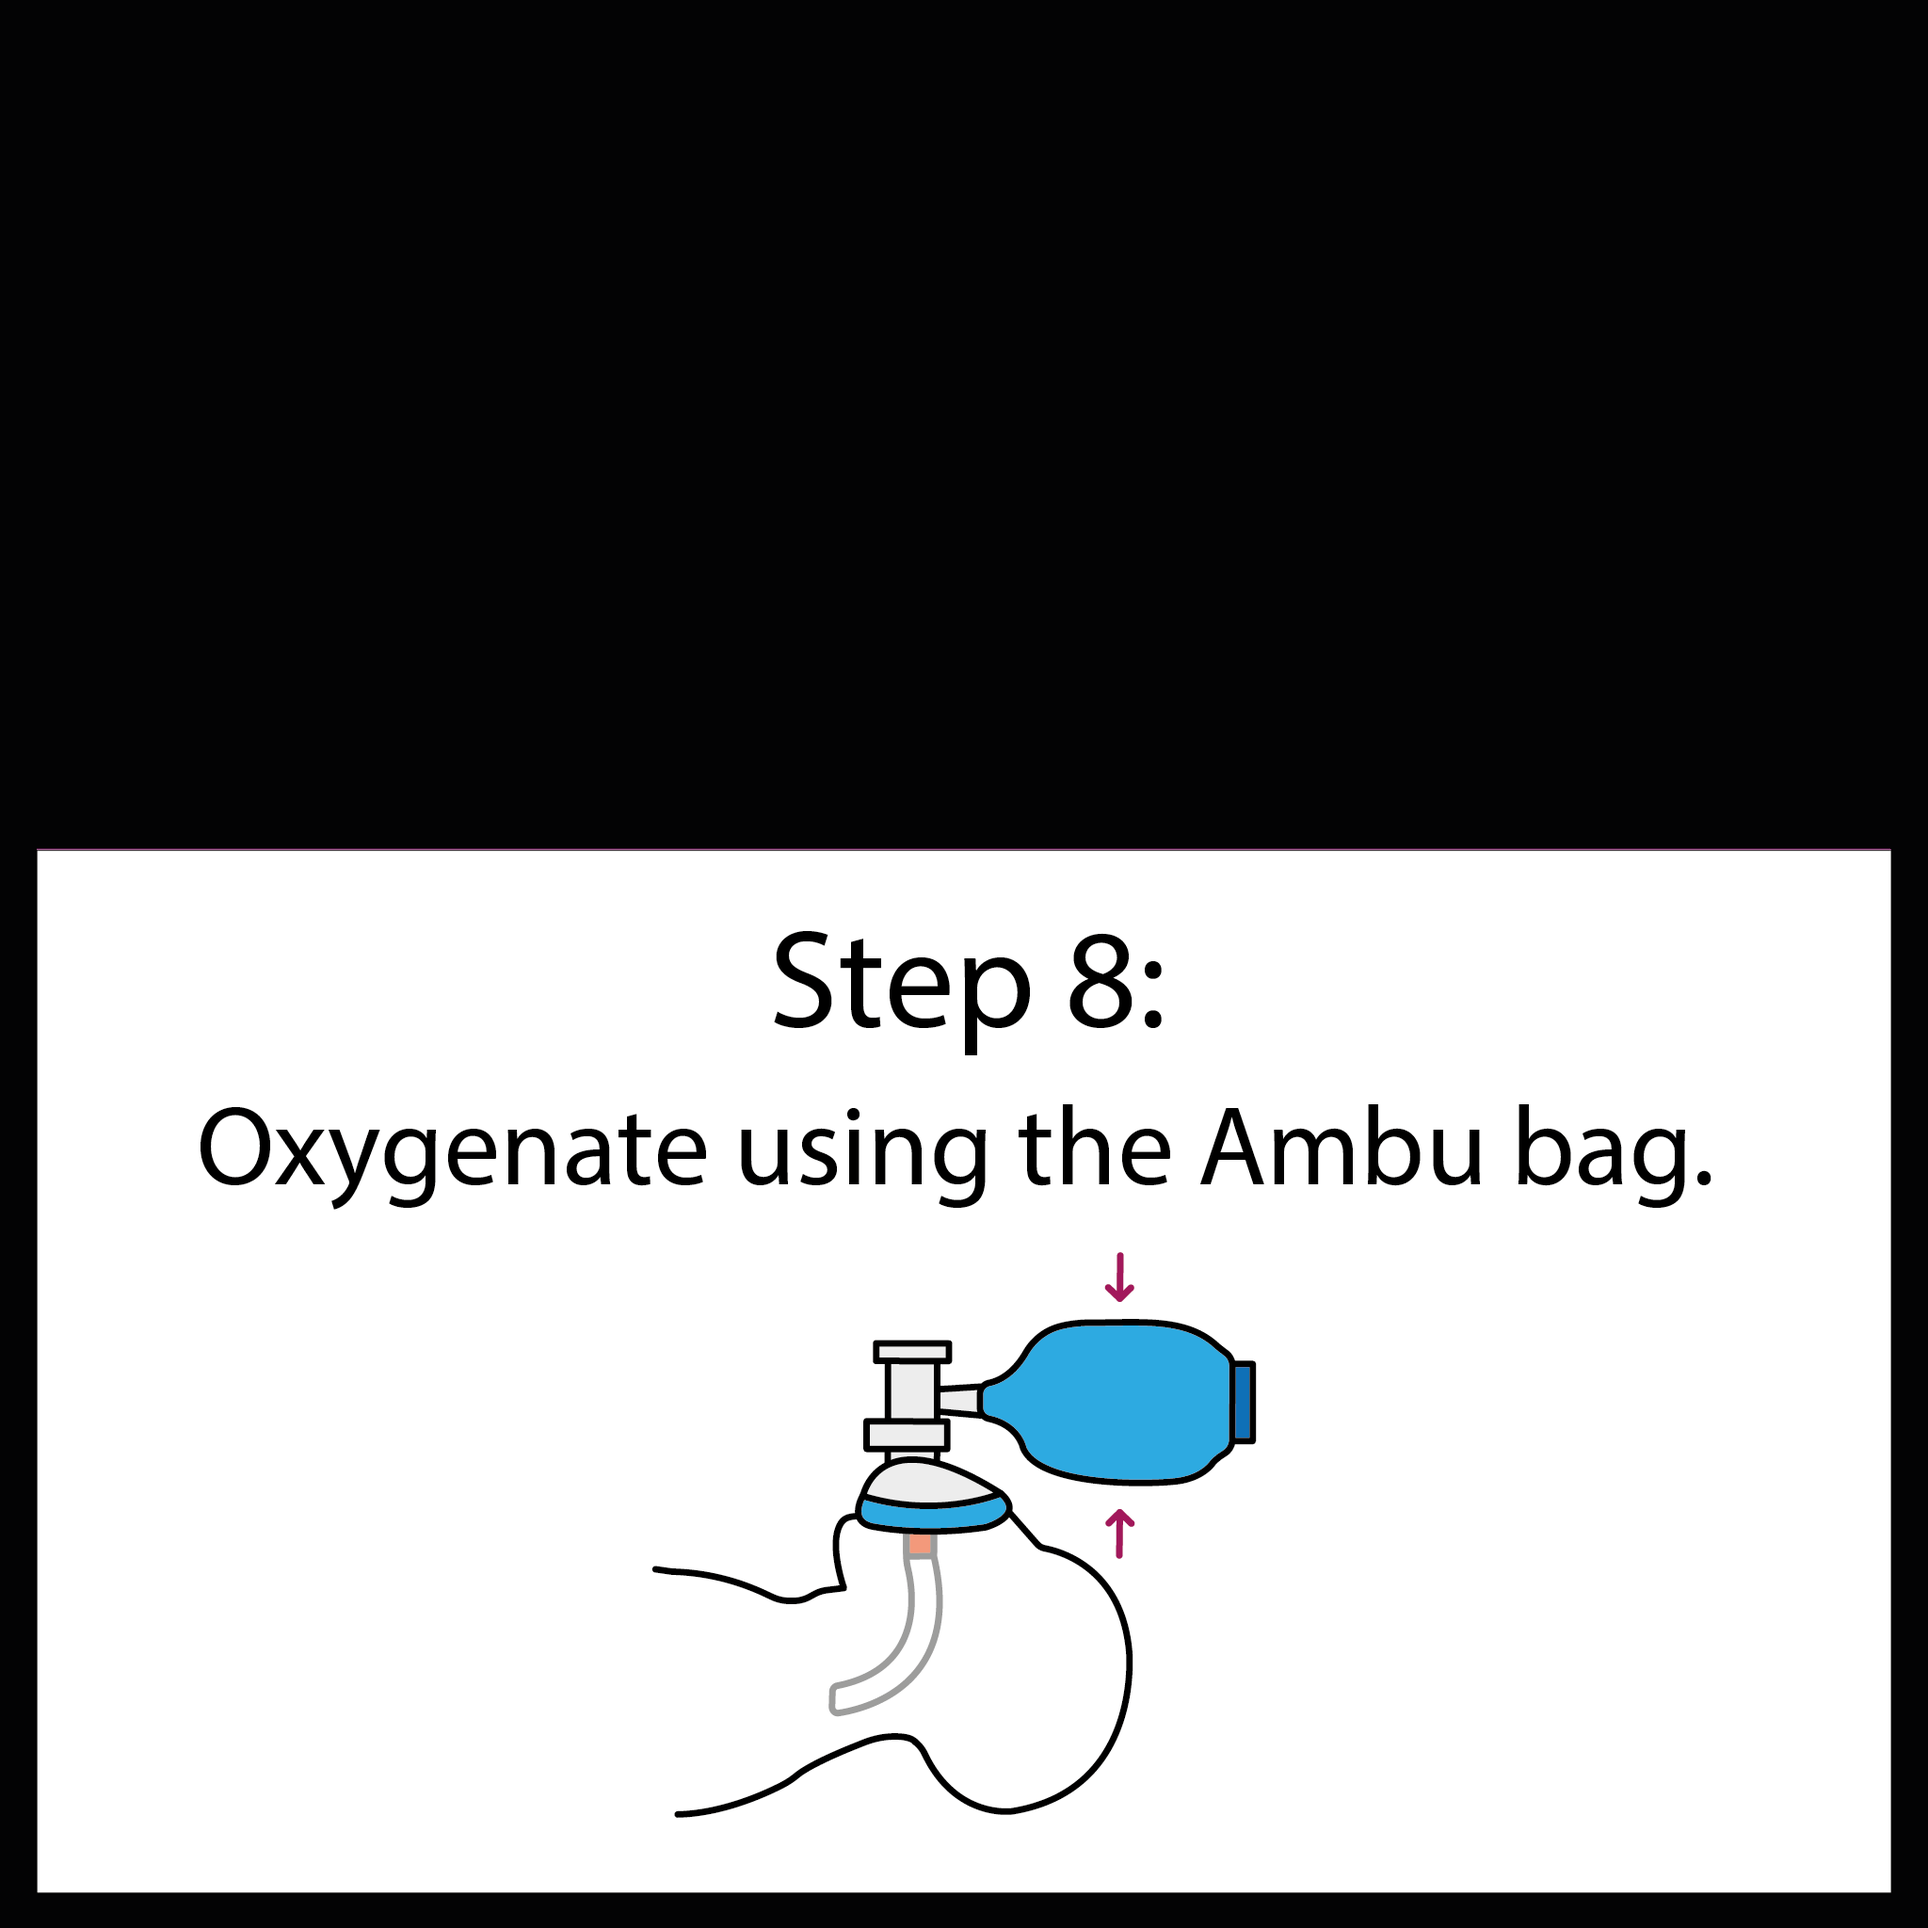
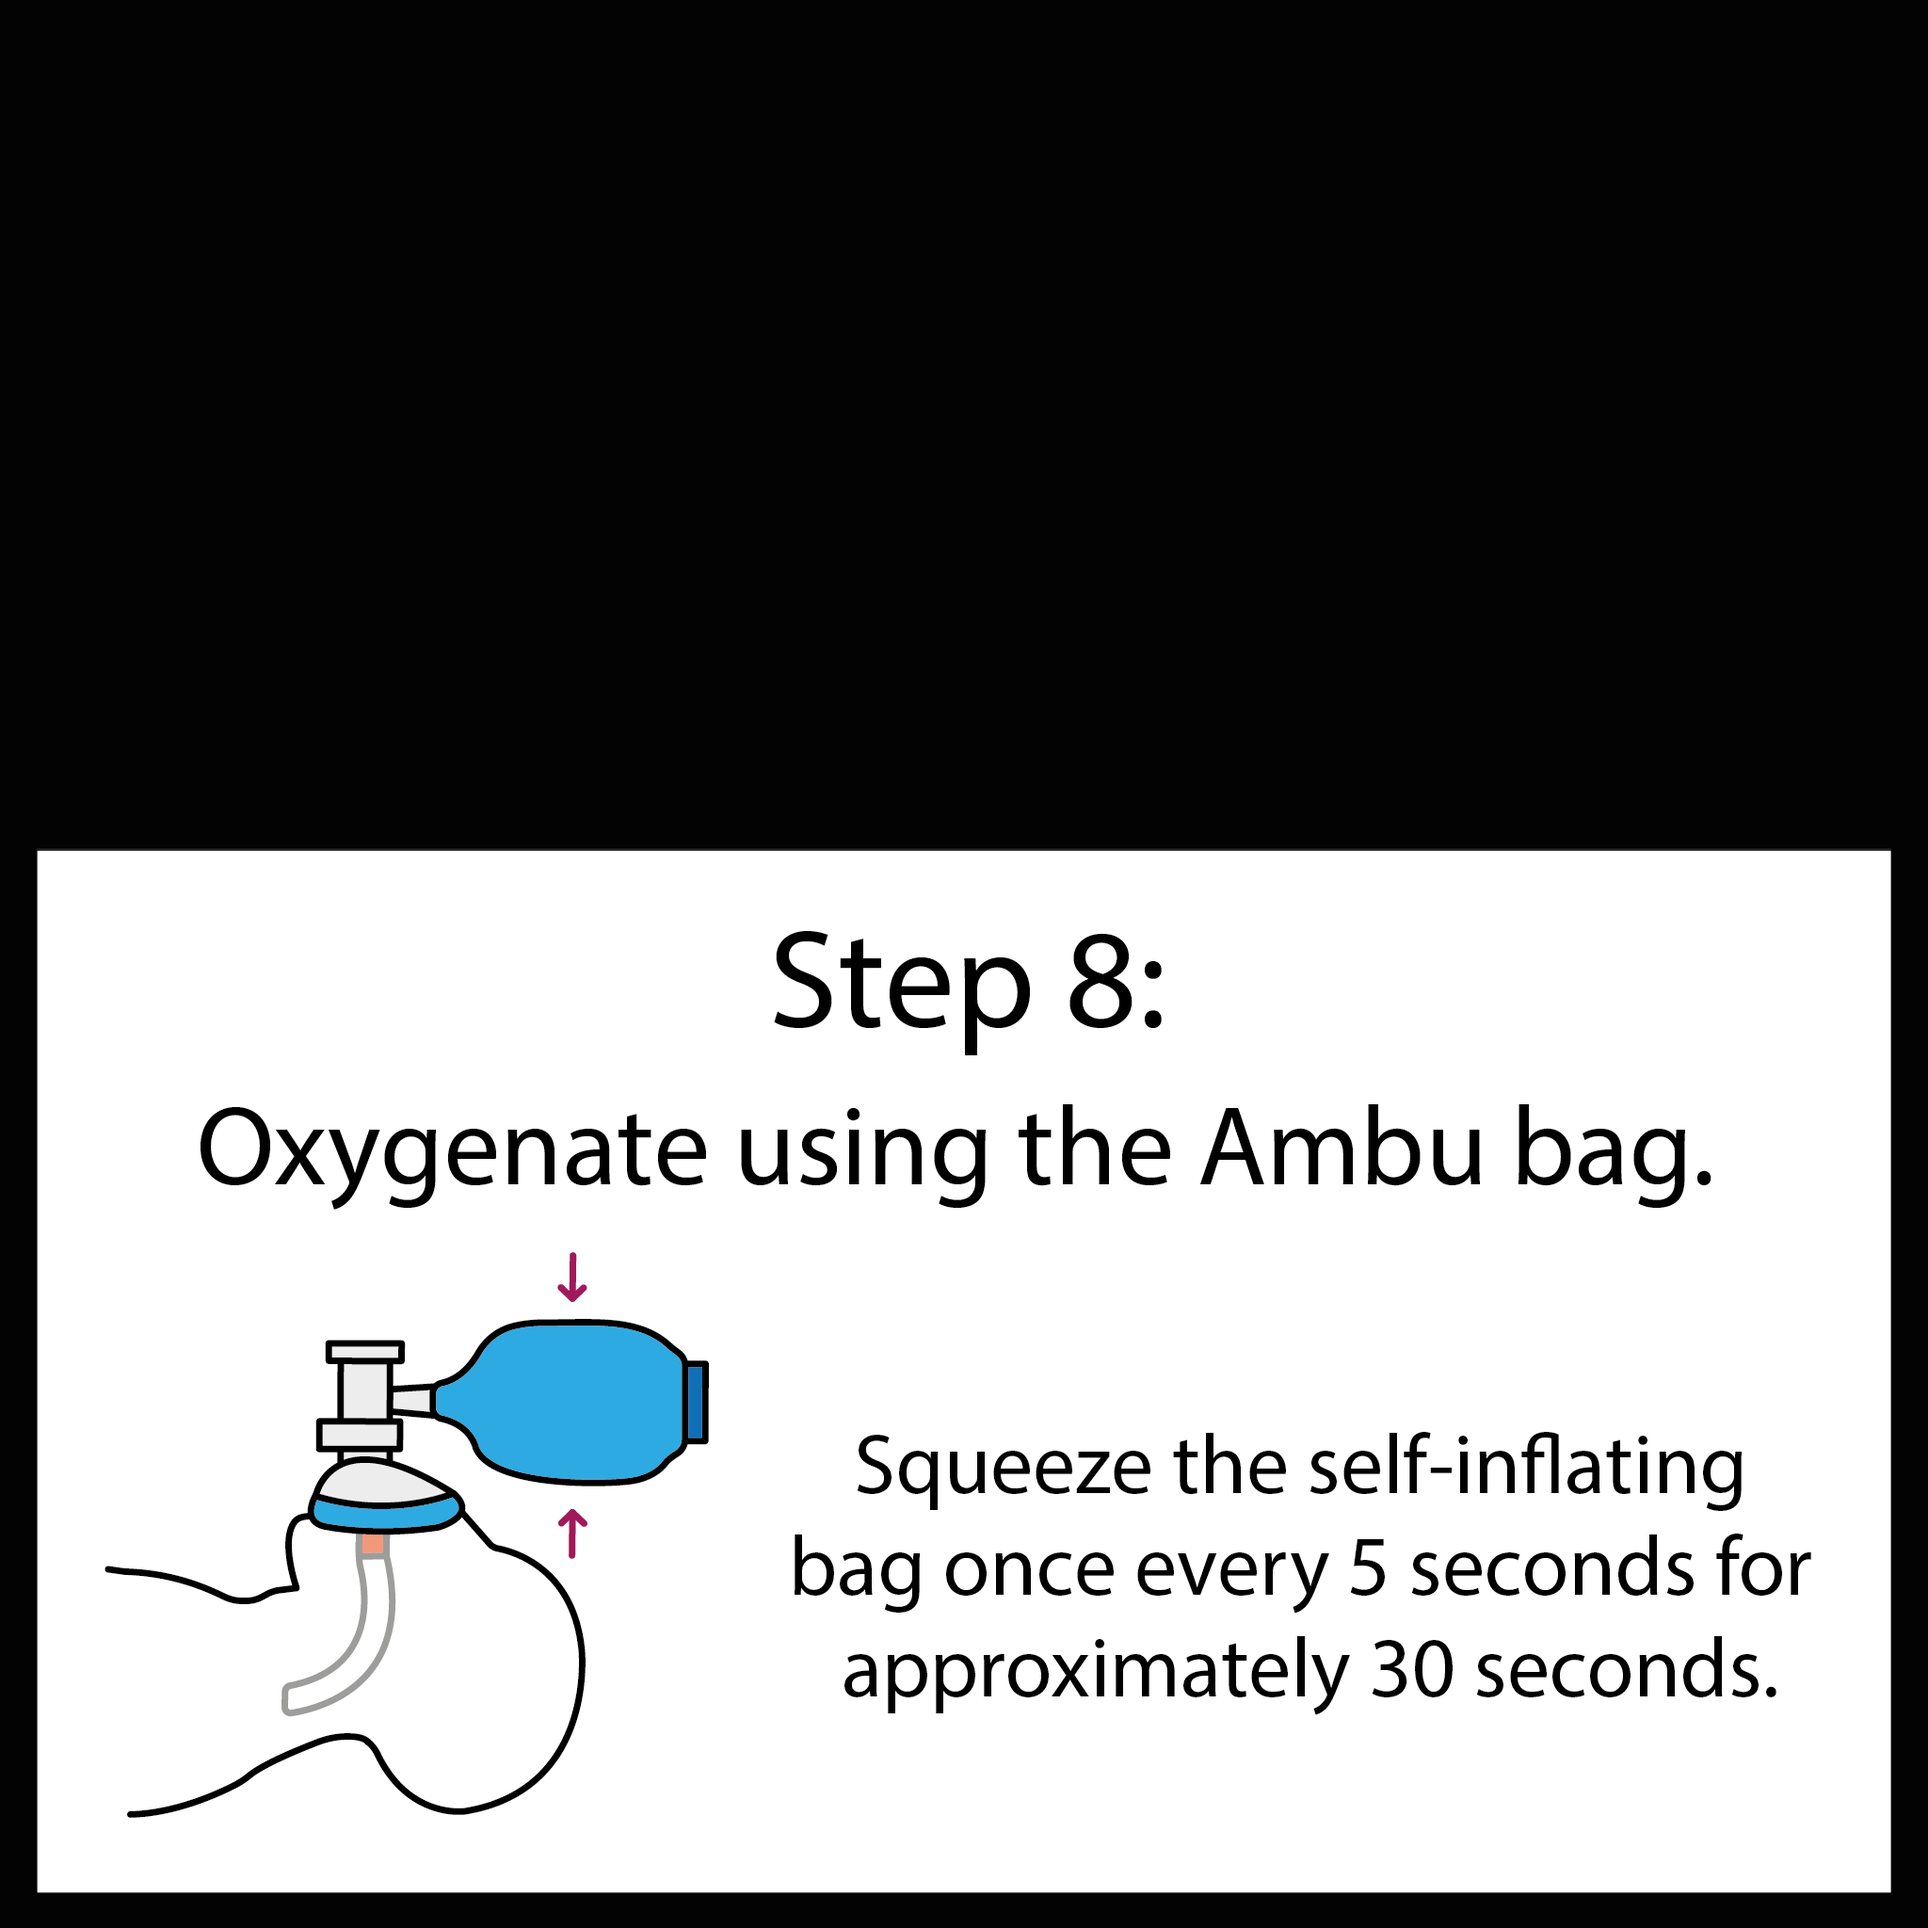
ImplementacionesLLuc

diff --git a/Assets/Scripts/FlujoDelJuego/GameManager.cs b/Assets/Scripts/FlujoDelJuego/GameManager.cs
@@ -3,6 +3,7 @@ using System.Collections;
 using System.Collections.Generic;
 using TMPro;
 using UnityEngine;
+using static OVRPlugin;
 
 public class GameManager : MonoBehaviour
 {
@@ -141,7 +142,7 @@ public class GameManager : MonoBehaviour
     public void updateGameState(GameState newState){
 
         if (state != GameState.menuPrincipal && state != GameState.simulacionTerminada){
-            correctSound.Play();
+            CorrectSoundPlayer(newState);
             myDatabase.LogAction("Avanza al siguiente paso", true, "Siguiente paso: " + newState);
         }
 
@@ -273,6 +274,20 @@ public class GameManager : MonoBehaviour
             LEDPantallas.SetTexture("_BaseMap", instrucciones[index]);
             LEDPantallas.SetTexture("_EmissionMap", instrucciones[index]);
         }
+    }
+
+    private void CorrectSoundPlayer(GameState step)
+    {
+        if (correctSound == null) return;
+        int stepIndex = (int)step;
+
+        float minPitch = 0.75f;
+        float maxPitch = 1f;
+
+        int totalSteps = (int)GameState.simulacionTerminada;
+        float pitch = Mathf.Lerp(minPitch, maxPitch, (float)stepIndex / totalSteps);
+        correctSound.pitch = pitch;
+        correctSound.Play();
     }
 
     private void OpenInGameMenu()
